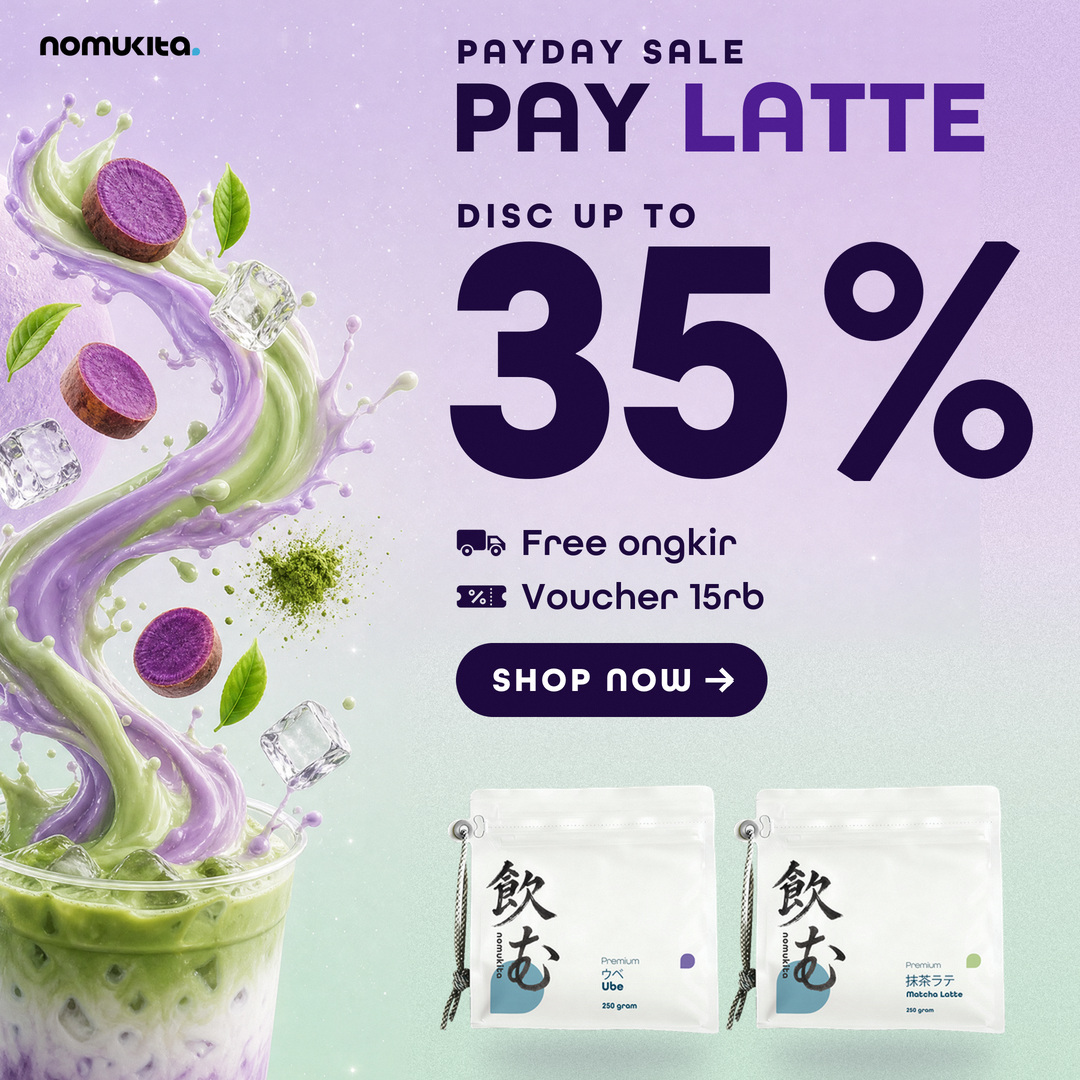
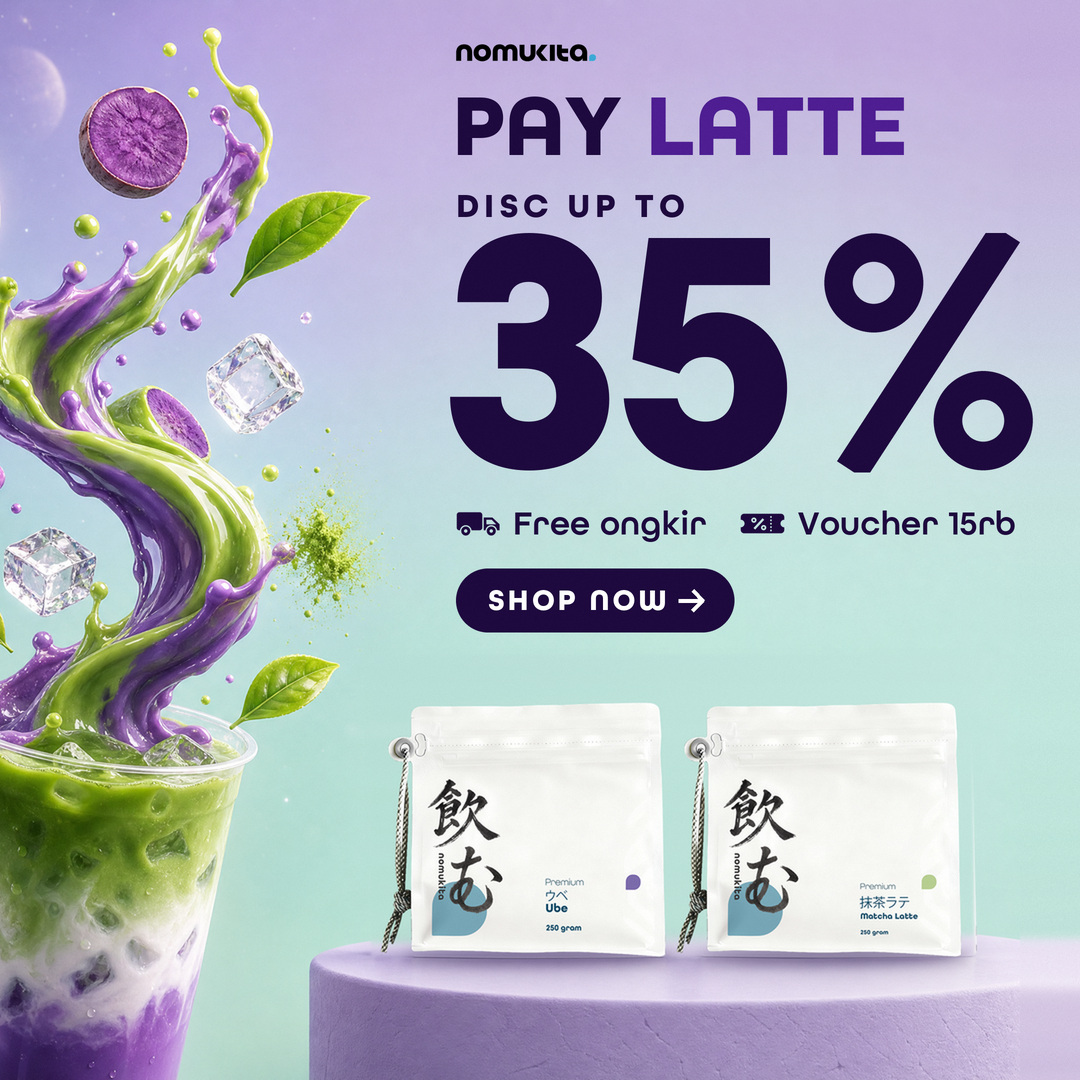
PAY LATTE v5: lighter typography, grounded 250 g pouches, richer colours
PAYDAY SALE removed and the type reduced to one line per element; new
scene with a podium so the real 250 g pouches stand with contact shadows;
deeper ube violet and matcha green. v4 archived.

Claude-Session: https://claude.ai/code/session_01Bv3a5UzTxRJwy8L4VxmgVZ

diff --git a/banners/payday-pay-latte/scripts/v5/ptools.py b/banners/payday-pay-latte/scripts/v5/ptools.py
@@ -1,0 +1,64 @@
+"""Shared drawing helpers: tracked text, vector percent block, flat vector icons."""
+import sys, os, json, math
+import numpy as np
+from PIL import Image, ImageDraw, ImageFont
+ROOT = "/tmp/claude-0/-home-user-Dom-Manipulation/cc5b59a6-6b87-5897-882c-ef3d3b14e312/scratchpad"
+sys.path.insert(0, "/home/user/Dom-Manipulation/banners/10.10-ube")
+from compose import logo_rgba
+FD = ROOT + "/assets/fonts/All Round Gothic/"
+BOLD, DEMI = FD + "Fontspring-DEMO-allroundgothic-bold.otf", FD + "Fontspring-DEMO-allroundgothic-demi.otf"
+K = 2
+INK = (30, 10, 62); UBE = (78, 30, 146); WHITE = (255, 255, 255)
+
+def f(path, size): return ImageFont.truetype(path, int(round(size * K)))
+def cap(fnt): b = fnt.getbbox("H"); return (b[3] - b[1]) / K
+def text(cv, x, y, s, fnt, tr=0, fill=INK):
+    d = ImageDraw.Draw(cv); X = x * K; top = fnt.getbbox("H")[1]
+    for c in s:
+        d.text((X, y * K - top), c, font=fnt, fill=fill); X += fnt.getlength(c) + tr * K
+    return (X - tr * K) / K - x
+
+def pct_vec(digits, digit_h, color):
+    """Digits from the Bold font + a vector % (locked in the DEMO font), figure height = digit_h px."""
+    fb = ImageFont.truetype(BOLD, 400); b5 = fb.getbbox("5"); size = 400 * digit_h * K / (b5[3] - b5[1])
+    fb = ImageFont.truetype(BOLD, int(round(size))); bb = [fb.getbbox(c) for c in digits]
+    top = min(b[1] for b in bb); H = max(b[3] for b in bb) - top
+    t = 0.135 * size; r = 0.142 * size; ring = 0.082 * size; wp = 0.60 * size; gap = 0.075 * size
+    wd = sum(fb.getlength(c) for c in digits) - 0.02 * size * (len(digits) - 1)
+    Wt = int(wd + gap + wp + 8); ss = 3
+    lay = Image.new("RGBA", (Wt, int(H + 8)), (0, 0, 0, 0)); d = ImageDraw.Draw(lay); x = 0
+    for c in digits:
+        d.text((x, -top), c, font=fb, fill=color + (255,)); x += fb.getlength(c) - 0.02 * size
+    m = Image.new("L", (int((wp + 4) * ss), int((H + 4) * ss)), 0); md = ImageDraw.Draw(m)
+    Rr = r * ss; RI = (r - ring) * ss; c1 = (Rr + 2, Rr + 2); c2 = (wp * ss - Rr - 2, H * ss - Rr - 2)
+    for c0 in (c1, c2):
+        md.ellipse([c0[0] - Rr, c0[1] - Rr, c0[0] + Rr, c0[1] + Rr], fill=255); md.ellipse([c0[0] - RI, c0[1] - RI, c0[0] + RI, c0[1] + RI], fill=0)
+    q1 = (wp * ss - r * 0.55 * ss, 0); q2 = (r * 0.55 * ss, H * ss); dx, dy = q2[0] - q1[0], q2[1] - q1[1]; Ln = math.hypot(dx, dy)
+    nx, ny = -dy / Ln, dx / Ln; th = t * 0.72 / 2 * ss
+    md.polygon([(q1[0] + nx * th, q1[1] + ny * th), (q1[0] - nx * th, q1[1] - ny * th), (q2[0] - nx * th, q2[1] - ny * th), (q2[0] + nx * th, q2[1] + ny * th)], fill=255)
+    m = m.resize((int(wp + 4), int(H + 4)), Image.LANCZOS)
+    col = Image.new("RGBA", m.size, color + (255,)); col.putalpha(m); lay.alpha_composite(col, (int(wd + gap), 0))
+    return lay.crop(lay.getbbox())
+
+def icon(kind, h, color):
+    """Flat vector icons drawn on a 120x80 grid: delivery truck / voucher ticket."""
+    ss = 8; W0, H0 = 120, 80
+    m = Image.new("L", (W0 * ss, H0 * ss), 0); d = ImageDraw.Draw(m)
+    def R(box, rad, fill=255): d.rounded_rectangle([v * ss for v in box], radius=rad * ss, fill=fill)
+    def C(cx, cy, r, fill=255): d.ellipse([(cx - r) * ss, (cy - r) * ss, (cx + r) * ss, (cy + r) * ss], fill=fill)
+    if kind == "truck":
+        R((2, 10, 70, 58), 7)                                           # cargo box
+        d.polygon([(v[0] * ss, v[1] * ss) for v in [(74, 24), (97, 24), (116, 42), (116, 58), (74, 58)]], fill=255)   # cab
+        R((74, 24, 100, 58), 5); R((96, 40, 116, 58), 5)
+        d.polygon([(v[0] * ss, v[1] * ss) for v in [(81, 30), (95, 30), (107, 42), (81, 42)]], fill=0)                # window
+        for cx in (26, 94):
+            C(cx, 60, 15.5, 0); C(cx, 60, 12); C(cx, 60, 4.6, 0)        # wheels with a gap ring
+    else:
+        R((2, 14, 118, 66), 9)                                          # ticket body
+        C(2, 40, 10, 0); C(118, 40, 10, 0)                              # side notches
+        for y in range(20, 64, 9): R((80.5, y, 84.5, y + 5), 2, 0)      # perforation
+        d.polygon([(v[0] * ss, v[1] * ss) for v in [(36, 52), (60, 26), (64.5, 30), (40.5, 56)]], fill=0)             # small % mark
+        C(37, 31, 7, 0); C(37, 31, 2.6); C(63, 51, 7, 0); C(63, 51, 2.6)
+    w = round(h * K * W0 / H0); m = m.resize((w, int(h * K)), Image.LANCZOS)
+    lay = Image.new("RGBA", m.size, color + (255,)); lay.putalpha(m); return lay
+

diff --git a/banners/payday-pay-latte/scripts/v5/compose_v5.py b/banners/payday-pay-latte/scripts/v5/compose_v5.py
@@ -1,0 +1,51 @@
+"""PAY LATTE v5: minimal typography on one left axis (logo, PAY LATTE, DISC UP TO, 35%, one benefits line, CTA).
+Sizes: label/body 34, headline, 35% (digit height 21.94% of width), CTA 30. No 'PAYDAY SALE'."""
+import sys, os, json
+import numpy as np, cv2
+from PIL import Image, ImageDraw
+from ptools import *
+L = json.loads(sys.argv[1]); CW, CH = L["size"]; X = L["x"]
+A = np.asarray(Image.open(L["bg"]).convert("RGB")).astype(np.float32); sx = L.get("shift", 0)
+if sx:
+    edge = cv2.GaussianBlur(np.median(A[:, -16:], axis=1)[:, None], (0, 0), sigmaX=0.1, sigmaY=4)[:, 0]   # colour at the original right edge
+    strip = np.repeat(edge[:, None], sx, axis=1) + np.random.default_rng(3).normal(0, 1.2, (A.shape[0], sx, 1))
+    A = np.concatenate([A[:, sx:], strip], axis=1)
+Image.fromarray(np.clip(A, 0, 255).astype(np.uint8)).save(L["out"] + ".bg.png")
+cv = Image.fromarray(np.clip(A, 0, 255).astype(np.uint8)).resize((CW * K, CH * K), Image.LANCZOS).convert("RGBA")
+boxes = {}
+def tw(s, fnt, tr=0): return sum(fnt.getlength(c) for c in s) / K + tr * (len(s) - 1)
+def put(key, s, fnt, y, tr=0, fill=INK, x=None):
+    x = X if x is None else x; text(cv, x, y, s, fnt, tr, fill); boxes[key] = (x, y, x + tw(s, fnt, tr), y + cap(fnt)); return y + cap(fnt)
+y = L["y0"]
+lg = logo_rgba(ROOT + "/assets/logo01.jpg"); lw = L.get("logo_w", 150) * K
+lg = lg.resize((int(lw), int(lg.height * lw / lg.width)), Image.LANCZOS); cv.alpha_composite(lg, (int(X * K), int(y * K)))
+boxes["logo"] = (X, y, X + lw / K, y + lg.height / K); y += lg.height / K + L["g_logo"]
+fh = f(BOLD, L["head"]); wp = tw("PAY ", fh); put("PAY", "PAY", fh, y, 0, INK, X - 4); y = put("LATTE", "LATTE", fh, y, 0, UBE, X - 4 + wp) + L["g_group"]
+fl = f(BOLD, L.get("label", 34)); y = put("DISC UP TO", "DISC UP TO", fl, y, 5) + L.get("g_pct", 18)
+pct = pct_vec("35", 0.2194 * CW * 0.983, INK); cv.alpha_composite(pct, (int((X - 6) * K), int(y * K)))
+boxes["35%"] = (X - 6, y, X - 6 + pct.width / K, y + pct.height / K); y += pct.height / K + L["g_group"]
+fo = f(DEMI, L.get("body", 34)); ih = L.get("icon_h", 30); x = X
+for i, (kind, s) in enumerate([("truck", "Free ongkir"), ("ticket", "Voucher 15rb")]):
+    ic = icon(kind, ih, INK); cv.alpha_composite(ic, (int(x * K), int((y + cap(fo) / 2 - ih / 2) * K)))
+    wt = tw(s, fo, 0.3); text(cv, x + ic.width / K + 12, y, s, fo, 0.3, INK); boxes[f"b{i}"] = (x, y - 4, x + ic.width / K + 12 + wt, y + cap(fo) + 4)
+    x += ic.width / K + 12 + wt + L.get("sep", 34)
+y += cap(fo) + L.get("g_cta", 40)
+fc = f(BOLD, L.get("cta", 30)); h = L.get("cta_h", 68); aw = 24; t_w = tw("SHOP NOW", fc, 3); w = t_w + 2 * 32 + aw + 12
+pl = Image.new("RGBA", (int(w * K * 3), int(h * K * 3)), (0, 0, 0, 0))
+ImageDraw.Draw(pl).rounded_rectangle([0, 0, pl.width - 1, pl.height - 1], radius=pl.height / 2, fill=INK + (255,))
+cv.alpha_composite(pl.resize((int(w * K), int(h * K)), Image.LANCZOS), (int(X * K), int(y * K)))
+tx = X + 32; text(cv, tx, y + (h - cap(fc)) / 2, "SHOP NOW", fc, 3, WHITE)
+d = ImageDraw.Draw(cv); ax = (tx + t_w + 12) * K; ay = (y + h / 2) * K; Lr = aw * K; th = int(4 * K)
+d.line([(ax, ay), (ax + Lr, ay)], fill=WHITE, width=th)
+d.line([(ax + Lr * 0.58, ay - Lr * 0.42), (ax + Lr + 1, ay + 1)], fill=WHITE, width=th)
+d.line([(ax + Lr * 0.58, ay + Lr * 0.42), (ax + Lr + 1, ay - 1)], fill=WHITE, width=th)
+boxes["cta"] = (X, y, X + w, y + h)
+print({k: tuple(round(v) for v in b) for k, b in boxes.items()})
+out = cv.convert("RGB").resize((CW, CH), Image.LANCZOS)
+a = np.asarray(out).astype(np.float32) + np.random.default_rng(11).normal(0, 0.7, (CH, CW, 1))
+out = Image.fromarray(np.clip(a, 0, 255).astype(np.uint8))
+for q in (94, 92, 90):
+    out.save(L["out"], quality=q, optimize=True, progressive=True, subsampling=0)
+    if os.path.getsize(L["out"]) <= 2_000_000: break
+json.dump({k: [float(v) for v in b] for k, b in boxes.items()}, open(L["out"] + ".boxes.json", "w"))
+print("saved", L["out"], out.size, os.path.getsize(L["out"]), "bytes")

diff --git a/banners/payday-pay-latte/scripts/v5/paste250c.py b/banners/payday-pay-latte/scripts/v5/paste250c.py
@@ -1,0 +1,42 @@
+"""Real 250 g pouches on the AI podium, from measured AI body rectangles.
+1) the whole AI pouch area (bodies + ropes, above the base) is rebuilt from the scene behind it: per row, a linear
+   blend of the sky/podium just left and just right of the pouch pair (+ matched grain);
+2) the real mockups are placed at the AI body width, bottoms on the AI base line (same podium contact),
+   both identical size. Usage: paste250c.py in out '{"ube":[x0,x1],"matcha":[x0,x1],"top":y,"base":y,"rope":x}'"""
+import sys, cv2, numpy as np, json
+from PIL import Image
+ROOT = "/tmp/claude-0/-home-user-Dom-Manipulation/cc5b59a6-6b87-5897-882c-ef3d3b14e312/scratchpad"
+src, dst, G = sys.argv[1], sys.argv[2], json.loads(sys.argv[3])
+ai = np.asarray(Image.open(src).convert('RGB')).astype(np.float32); H, W, _ = ai.shape
+L0 = G["rope"] - 10; R1 = G["matcha"][1] + 10; top, base = G["top"], G["base"]
+lc = np.median(ai[:, max(0, L0 - 40):L0 - 8], axis=1); rc = np.median(ai[:, R1 + 8:min(W, R1 + 40)], axis=1)
+lc = cv2.GaussianBlur(lc[:, None], (0, 0), sigmaX=0.1, sigmaY=6)[:, 0]; rc = cv2.GaussianBlur(rc[:, None], (0, 0), sigmaX=0.1, sigmaY=6)[:, 0]
+t = np.clip((np.arange(W) - L0) / (R1 - L0), 0, 1)[None, :, None]
+model = lc[:, None] * (1 - t) + rc[:, None] * t
+g = ai - cv2.GaussianBlur(ai, (0, 0), 1.5); gstd = float(g[top - 120:top - 20, L0:R1].std())
+model += np.random.default_rng(5).normal(0, gstd, (H, W, 1))
+m = np.zeros((H, W), np.float32); m[top - 12:base + 3, L0:R1] = 1
+mm = cv2.GaussianBlur(m, (0, 0), 3)[..., None]
+out = ai * (1 - mm) + model * mm
+# contact shadow on the podium under each real pouch (the AI one was erased with the pouches above the base)
+BW = min(G["ube"][1] - G["ube"][0], G["matcha"][1] - G["matcha"][0]); sc = BW / 755.0
+def real(name):
+    p = Image.open(f"{ROOT}/assets/nomukita-{name}-250g.png").convert("RGBA"); a = np.asarray(p).astype(np.int16)
+    al = a[..., 3].copy(); al[(al < 250) & (a[..., :3].max(axis=2) < 120)] = 0; a[..., 3] = al
+    return Image.fromarray(a.astype(np.uint8), "RGBA")
+placed = []
+for name, key in (("ube", "ube"), ("matcha-latte", "matcha")):
+    x0, x1 = G[key]; cx = (x0 + x1) / 2
+    sh = np.zeros((H, W), np.float32); cv2.ellipse(sh, (int(cx), int(base + 1)), (int(BW * 0.53), int(max(8, BW * 0.03))), 0, 0, 360, 1, -1)
+    sh = cv2.GaussianBlur(sh, (0, 0), max(5, BW * 0.025))[..., None] * 0.55
+    out = out * (1 - sh) + np.array([62, 46, 92], np.float32) * sh
+    amb = np.zeros((H, W), np.float32); cv2.ellipse(amb, (int(cx), int(base + 4)), (int(BW * 0.62), int(BW * 0.07)), 0, 0, 360, 1, -1)
+    amb = cv2.GaussianBlur(amb, (0, 0), BW * 0.06)[..., None] * 0.22
+    out = out * (1 - amb) + np.array([70, 55, 100], np.float32) * amb
+o = Image.fromarray(np.clip(out, 0, 255).astype(np.uint8)).convert("RGBA")
+for name, key in (("ube", "ube"), ("matcha-latte", "matcha")):
+    x0, x1 = G[key]; cx = (x0 + x1) / 2
+    p = real(name); p = p.resize((round(p.width * sc), round(p.height * sc)), Image.LANCZOS)
+    ox, oy = round(cx - 527.5 * sc), round(base - 782 * sc); o.alpha_composite(p, (ox, oy)); placed.append((ox, oy, ox + p.width, oy + p.height))
+o.convert("RGB").save(dst); json.dump(dict(placed=placed, body=BW, base=base), open(dst + ".json", "w"))
+print("body", BW, "x", round(750 * sc), "| placed", placed, "| grain", round(gstd, 2))

diff --git a/banners/payday-pay-latte/scripts/v5/verify3.py b/banners/payday-pay-latte/scripts/v5/verify3.py
@@ -1,0 +1,21 @@
+import sys, json, numpy as np, os, cv2
+from PIL import Image
+out, bgp = sys.argv[1], sys.argv[2]
+im = Image.open(out); a = np.asarray(im.convert('RGB')).astype(float); bx = json.load(open(out + '.boxes.json'))
+x0, y0, x1, y1 = [int(v) for v in bx['35%']]
+ink = (a[..., 0] < 80) & (a[..., 2] < 130) & (a[..., 1] < 60)
+r = np.where(ink[y0 - 4:y1 + 4, x0:x0 + 330].sum(axis=1) > 8)[0]
+print(os.path.basename(out), im.size, os.path.getsize(out), "bytes | digit height", r.max() - r.min() + 1, "px =", round(100 * (r.max() - r.min() + 1) / im.width, 2), "% of width")
+bg = np.asarray(Image.open(bgp).convert('RGB')).astype(np.float32)
+def rl(c):
+    c = c / 255; c = np.where(c <= 0.03928, c / 12.92, ((c + 0.055) / 1.055) ** 2.4); return 0.2126 * c[..., 0] + 0.7152 * c[..., 1] + 0.0722 * c[..., 2]
+Lm = rl(bg); ink_l = rl(np.array([[30, 10, 62]], float))[0]; ube_l = rl(np.array([[78, 30, 146]], float))[0]
+cr = lambda p, q: (max(p, q) + 0.05) / (min(p, q) + 0.05)
+obj = (np.abs(bg - cv2.GaussianBlur(bg, (0, 0), 60)).max(axis=2) > 18).astype(np.uint8)
+obj = cv2.morphologyEx(obj, cv2.MORPH_OPEN, np.ones((5, 5), np.uint8)).astype(bool)
+for k, b in bx.items():
+    if k == 'logo' or k.startswith('pouch'): continue
+    X0, Y0, X1, Y1 = [int(round(v)) for v in b]; reg = Lm[Y0:Y1, X0:X1]; lo, hi = np.percentile(reg, 5), np.percentile(reg, 95)
+    c = min(cr(ink_l, lo), cr(ink_l, hi)); extra = f" | purple {min(cr(ube_l, lo), cr(ube_l, hi)):.1f}:1" if 'LATTE' in k else ""
+    under = obj[Y0:Y1, X0:X1].mean(); pad = 20; near = obj[max(0, Y0 - pad):Y1 + pad, max(0, X0 - pad):X1 + pad].mean()
+    print(f"  {k:10s} contrast {c:.1f}:1{extra} | photo under text {100 * under:.1f}% | within 20 px {100 * near:.1f}%")

diff --git a/banners/payday-pay-latte/README.md b/banners/payday-pay-latte/README.md
@@ -1,10 +1,33 @@
 # PAY LATTE, banner payday (Ube & Matcha Latte 250 g, Ube Matcha Latte)
 
-File (versi 4, aktif)
-- `pay-latte-payday-1080x1620.jpg` (2:3, 0,57 MB)
-- `pay-latte-payday-1080x1080.jpg` (1:1, 0,38 MB)
-- Versi sebelumnya: `archive-v3/` (gaya luar angkasa, pouch 1000 g), `archive-v2/`, `archive-v1/`.
+File (versi 5, aktif)
+- `pay-latte-payday-1080x1620.jpg` (2:3, 0,48 MB)
+- `pay-latte-payday-1080x1080.jpg` (1:1, 0,35 MB)
+- Versi sebelumnya: `archive-v4/` (latar pucat, pouch melayang), `archive-v3/`, `archive-v2/`, `archive-v1/`.
 
+Versi 5: revisi
+1. Tipografi lebih lega: PAYDAY SALE dihapus, PAY LATTE satu baris dan lebih kecil (96 / 88), manfaat jadi
+   satu baris (ikon truk + Free ongkir, ikon tiket + Voucher 15rb), tombol lebih kecil. Urutan pada satu garis
+   rata kiri: logo, PAY LATTE, DISC UP TO, 35%, manfaat, SHOP NOW. Ukuran huruf: label/body 34, judul, 35%, tombol 30.
+   Angka 35 tetap 237 px (21,94% lebar) sesuai aturan referensi.
+2. Pouch tidak lagi melayang: foto baru (GPT Image 2) dengan podium batu lilac; kedua pouch berdiri di atas
+   podium dengan bayangan kontak.
+3. PAYDAY SALE dihapus.
+4. Warna ube dan matcha dipekatkan lewat prompt (ube ungu tua #6A2FB0-#8B4FD0, matcha hijau giok #4E9A2E-#6FB43A),
+   latar juga sedikit lebih dalam (lilac di atas, mint di bawah).
+- Pouch: AI menggambar pouch lebih tinggi daripada aslinya, jadi seluruh area pouch AI diganti latar (per baris,
+  campuran warna kiri-kanan) lalu mockup ASLI 250 g ditempel selebar badan pouch AI, alas di garis podium yang sama,
+  ukuran keduanya identik (`scripts/v5/paste250c.py`). Semua cetakan dari file asli.
+- Foto digeser ke kiri (2:3: 90 px, 1:1: 60 px) supaya pita cipratan tidak menyentuh teks.
+
+Pengukuran v5 (`scripts/v5/verify3.py`)
+- Kontras terburuk 8,7:1 sampai 13,2:1; LATTE ungu 5,3:1 (2:3) dan 5,9:1 (1:1).
+- Tidak ada objek foto di bawah teks maupun dalam jarak 20 px.
+
+Kredit kie.ai v5: 60 (3 varian 2:3 + 3 varian 1:1). Saldo key baru 8.436.
+
+---
+Catatan versi 4
 Versi 4: tipografi lebih clean + pouch 250 g
 - Pouch: foto mockup ASLI 250 g (nomukita-ube-250g.png, nomukita-matcha latte japanese.png), sudah tampak depan,
   ditempel apa adanya tanpa digambar ulang AI. Ukuran keduanya sama (2:3: 376 x 314 px; 1:1: 331 x 276 px,
